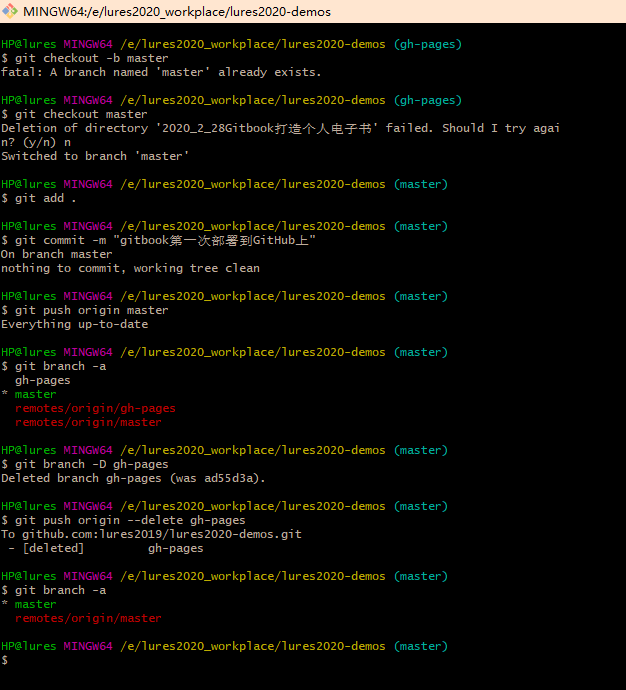
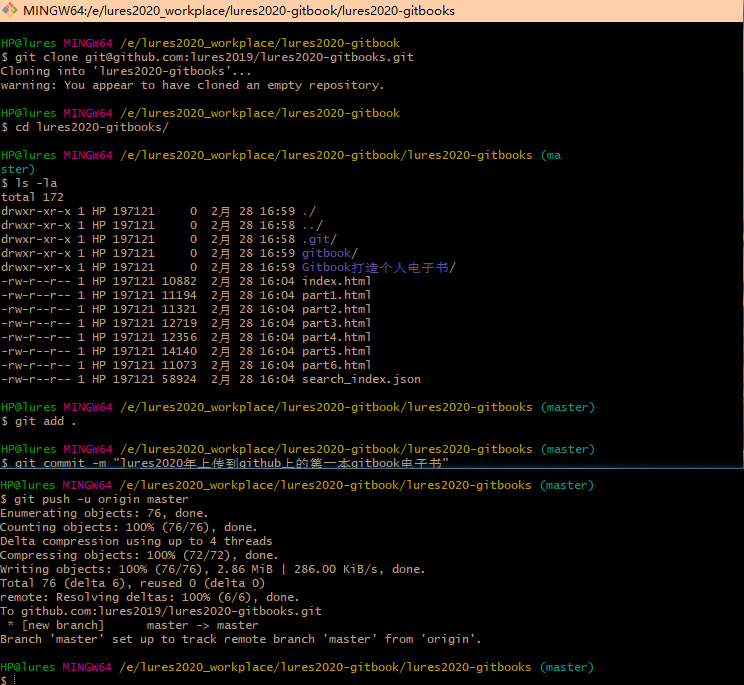
lures的第一本gitbook电子书成功上传至github

Changed region(s): [[0.0, 0.0, 1.0, 1.0], [0.8195, 0.1839, 0.8802, 0.2146], [0.6374, 0.4292, 0.6981, 0.4599]]

diff --git a/part6.html b/part6.html
@@ -249,7 +249,25 @@ gh-pages &#x5206;&#x652F;&#x4FDD;&#x5B58;&#x4E66;&#x7C4D;&#x7F16;&#x8BD1;&#x540E
 </code></pre><pre><code>&#x6CE8;&#x518C;&#x548C;&#x767B;&#x5F55;Github&#x7684;&#x8FC7;&#x7A0B;&#x6211;&#x5C31;&#x4E0D;&#x8BE6;&#x7EC6;&#x53D9;&#x8FF0;&#x4E86;&#xFF01;&#x5927;&#x5BB6;&#x53EF;&#x4EE5;&#x53C2;&#x8003;&#x8FD9;&#x7BC7;&#x6587;&#x7AE0;&#xFF1A;
     https://blog.csdn.net/rj597306518/article/details/71307757
 </code></pre><p><img src="Gitbook&#x6253;&#x9020;&#x4E2A;&#x4EBA;&#x7535;&#x5B50;&#x4E66;/&#x767B;&#x5F55;gitbook.png" alt=""></p>
-
+<pre><code>&#x65B0;&#x5EFA;&#x4E00;&#x4E2A;&#x4ED3;&#x5E93;&#xFF1A;lures2020-gitbooks
+</code></pre><p><img src="Gitbook&#x6253;&#x9020;&#x4E2A;&#x4EBA;&#x7535;&#x5B50;&#x4E66;/git&#x65B0;&#x4ED3;&#x5E93;.png" alt=""></p>
+<pre><code>&#x590D;&#x5236;&#x4ED3;&#x5E93;&#x7684;ssh&#x5730;&#x5740;&#xFF0C;&#x6253;&#x5F00;&#x60F3;&#x514B;&#x9686;&#x4ED3;&#x5E93;&#x7684;&#x4F4D;&#x7F6E;Git bash&#xFF0C;&#x63A5;&#x7740;&#x8F93;&#x5165;&#x4E0B;&#x9762;&#x7684;&#x4EE3;&#x7801;&#xFF1A;
+git clone git@github.com:lures2019/lures2020-gitbooks.git
+cd lures2020-gitbooks
+</code></pre><pre><code>&#x63A5;&#x7740;&#xFF0C;&#x5C06;_book&#x6587;&#x4EF6;&#x5939;&#x91CC;&#x9762;&#x7684;&#x6587;&#x4EF6;&#x5168;&#x90E8;&#x62F7;&#x8D1D;&#x5230;&#x65B0;&#x7684;&#x6587;&#x4EF6;&#x5939;&#x91CC;&#xFF0C;&#x5982;&#x4E0B;&#x56FE;&#xFF1A;
+</code></pre><p><img src="Gitbook&#x6253;&#x9020;&#x4E2A;&#x4EBA;&#x7535;&#x5B50;&#x4E66;/_book&#x6587;&#x4EF6;&#x5939;&#x64CD;&#x4F5C;1.png" alt=""></p>
+<pre><code>&#x63A5;&#x7740;&#xFF0C;&#x4FBF;&#x53EF;&#x4EE5;&#x8F93;&#x5165;&#x4E0B;&#x9762;&#x8FD9;&#x4E9B;&#x547D;&#x4EE4;&#xFF1A;
+git add .
+git commit -m &quot;lures2020&#x5E74;&#x4E0A;&#x4F20;&#x5230;github&#x4E0A;&#x7684;&#x7B2C;&#x4E00;&#x672C;&#x7535;&#x5B50;&#x4E66;&quot;
+git push -u origin master
+</code></pre><p><img src="Gitbook&#x6253;&#x9020;&#x4E2A;&#x4EBA;&#x7535;&#x5B50;&#x4E66;/&#x5220;&#x9664;&#x539F;&#x6709;&#x5206;&#x652F;.png" alt=""></p>
+<p><img src="Gitbook&#x6253;&#x9020;&#x4E2A;&#x4EBA;&#x7535;&#x5B50;&#x4E66;/gitbooks&#x4EE3;&#x7801;&#x4E0A;&#x4F20;1.png" alt=""></p>
+<p><img src="Gitbook&#x6253;&#x9020;&#x4E2A;&#x4EBA;&#x7535;&#x5B50;&#x4E66;/&#x9009;&#x62E9;settings&#x754C;&#x9762;.png" alt=""></p>
+<p><img src="Gitbook&#x6253;&#x9020;&#x4E2A;&#x4EBA;&#x7535;&#x5B50;&#x4E66;/settings2.png" alt=""></p>
+<p><img src="Gitbook&#x6253;&#x9020;&#x4E2A;&#x4EBA;&#x7535;&#x5B50;&#x4E66;/&#x4E66;&#x672C;&#x5C55;&#x793A;.png" alt=""></p>
+<pre><code>&#x6700;&#x540E;&#xFF0C;&#x7ECF;&#x8FC7;&#x597D;&#x4E45;&#x7684;&#x6D4B;&#x8BD5;&#xFF0C;&#x7EC8;&#x4E8E;over&#xFF0C;&#x987A;&#x4FBF;&#x8BB0;&#x5F55;&#x4E0B;&#x6559;&#x7A0B;&#xFF0C;&#x611F;&#x8C22;&#x6211;&#x5C31;&#x6253;&#x8D4F;&#x4E00;&#x4E0B;&#x5427;&#xFF01;
+&#x4E66;&#x672C;&#x7F51;&#x5740;&#xFF1A;https://lures2019.github.io/lures2020-gitbooks/
+</code></pre>
                                 
                                 </section>
                             
@@ -288,7 +306,7 @@ gh-pages &#x5206;&#x652F;&#x4FDD;&#x5B58;&#x4E66;&#x7C4D;&#x7F16;&#x8BD1;&#x540E
     <script>
         var gitbook = gitbook || [];
         gitbook.push(function() {
-            gitbook.page.hasChanged({"page":{"title":"6、将Gitbook电子书部署到GitHub上！","level":"1.7","depth":1,"previous":{"title":"5、相关插件！","level":"1.6","depth":1,"path":"part5.md","ref":"part5.md","articles":[]},"dir":"ltr"},"config":{"plugins":["donate","github-buttons@2.1.0","edit-link","livereload"],"root":".","styles":{"website":"styles/website.css","pdf":"styles/pdf.css","epub":"styles/epub.css","mobi":"styles/mobi.css","ebook":"styles/ebook.css","print":"styles/print.css"},"pluginsConfig":{"livereload":{},"search":{},"lunr":{"maxIndexSize":1000000,"ignoreSpecialCharacters":false},"donate":{"alipay":"https://lures2019.github.io/images/alipay.png","alipayText":"支付宝打赏","button":"打赏","title":"","wechat":"https://lures2019.github.io/images/wechatpay.png","wechatText":"微信打赏"},"fontsettings":{"theme":"white","family":"sans","size":2},"highlight":{},"github-buttons":{"repo":"lures2019/lures2020-demos","types":["star"],"size":"small"},"sharing":{"facebook":true,"twitter":true,"google":false,"weibo":false,"instapaper":false,"vk":false,"all":["facebook","google","twitter","weibo","instapaper"]},"edit-link":{"label":"编辑页面","base":"https://github.com/lures2019/lures2020-demos/2020_2_28Gitbook打造个人电子书"},"theme-default":{"styles":{"website":"styles/website.css","pdf":"styles/pdf.css","epub":"styles/epub.css","mobi":"styles/mobi.css","ebook":"styles/ebook.css","print":"styles/print.css"},"showLevel":false}},"theme":"default","author":"lures","pdf":{"pageNumbers":true,"fontSize":12,"fontFamily":"Arial","paperSize":"a4","chapterMark":"pagebreak","pageBreaksBefore":"/","margin":{"right":62,"left":62,"top":56,"bottom":56}},"structure":{"langs":"LANGS.md","readme":"README.md","glossary":"GLOSSARY.md","summary":"SUMMARY.md"},"variables":{},"title":"使用Gitbook打造免费的个人电子书","language":"zh-hans","gitbook":"*","description":"lures手把手完整式教程！"},"file":{"path":"part6.md","mtime":"2020-02-28T05:54:24.130Z","type":"markdown"},"gitbook":{"version":"3.2.3","time":"2020-02-28T06:42:22.974Z"},"basePath":".","book":{"language":""}});
+            gitbook.page.hasChanged({"page":{"title":"6、将Gitbook电子书部署到GitHub上！","level":"1.7","depth":1,"previous":{"title":"5、相关插件！","level":"1.6","depth":1,"path":"part5.md","ref":"part5.md","articles":[]},"dir":"ltr"},"config":{"plugins":["donate","github-buttons@2.1.0","edit-link","livereload"],"root":".","styles":{"website":"styles/website.css","pdf":"styles/pdf.css","epub":"styles/epub.css","mobi":"styles/mobi.css","ebook":"styles/ebook.css","print":"styles/print.css"},"pluginsConfig":{"livereload":{},"search":{},"lunr":{"maxIndexSize":1000000,"ignoreSpecialCharacters":false},"donate":{"alipay":"https://lures2019.github.io/images/alipay.png","alipayText":"支付宝打赏","button":"打赏","title":"","wechat":"https://lures2019.github.io/images/wechatpay.png","wechatText":"微信打赏"},"fontsettings":{"theme":"white","family":"sans","size":2},"highlight":{},"github-buttons":{"repo":"lures2019/lures2020-demos","types":["star"],"size":"small"},"sharing":{"facebook":true,"twitter":true,"google":false,"weibo":false,"instapaper":false,"vk":false,"all":["facebook","google","twitter","weibo","instapaper"]},"edit-link":{"label":"编辑页面","base":"https://github.com/lures2019/lures2020-demos/2020_2_28Gitbook打造个人电子书"},"theme-default":{"styles":{"website":"styles/website.css","pdf":"styles/pdf.css","epub":"styles/epub.css","mobi":"styles/mobi.css","ebook":"styles/ebook.css","print":"styles/print.css"},"showLevel":false}},"theme":"default","author":"lures","pdf":{"pageNumbers":true,"fontSize":12,"fontFamily":"Arial","paperSize":"a4","chapterMark":"pagebreak","pageBreaksBefore":"/","margin":{"right":62,"left":62,"top":56,"bottom":56}},"structure":{"langs":"LANGS.md","readme":"README.md","glossary":"GLOSSARY.md","summary":"SUMMARY.md"},"variables":{},"title":"使用Gitbook打造免费的个人电子书","language":"zh-hans","gitbook":"*","description":"lures手把手完整式教程！"},"file":{"path":"part6.md","mtime":"2020-02-28T09:17:37.387Z","type":"markdown"},"gitbook":{"version":"3.2.3","time":"2020-02-28T09:19:41.787Z"},"basePath":".","book":{"language":""}});
         });
     </script>
 </div>

diff --git a/part5.html b/part5.html
@@ -340,7 +340,7 @@ gitbook-plugin-edit-link(GitHub&#x7F16;&#x8F91;&#x6309;&#x94AE;): https://www.np
     <script>
         var gitbook = gitbook || [];
         gitbook.push(function() {
-            gitbook.page.hasChanged({"page":{"title":"5、相关插件！","level":"1.6","depth":1,"next":{"title":"6、将Gitbook电子书部署到GitHub上！","level":"1.7","depth":1,"path":"part6.md","ref":"part6.md","articles":[]},"previous":{"title":"4、简单书写","level":"1.5","depth":1,"path":"part4.md","ref":"part4.md","articles":[]},"dir":"ltr"},"config":{"plugins":["donate","github-buttons@2.1.0","edit-link","livereload"],"root":".","styles":{"website":"styles/website.css","pdf":"styles/pdf.css","epub":"styles/epub.css","mobi":"styles/mobi.css","ebook":"styles/ebook.css","print":"styles/print.css"},"pluginsConfig":{"livereload":{},"search":{},"lunr":{"maxIndexSize":1000000,"ignoreSpecialCharacters":false},"donate":{"alipay":"https://lures2019.github.io/images/alipay.png","alipayText":"支付宝打赏","button":"打赏","title":"","wechat":"https://lures2019.github.io/images/wechatpay.png","wechatText":"微信打赏"},"fontsettings":{"theme":"white","family":"sans","size":2},"highlight":{},"github-buttons":{"repo":"lures2019/lures2020-demos","types":["star"],"size":"small"},"sharing":{"facebook":true,"twitter":true,"google":false,"weibo":false,"instapaper":false,"vk":false,"all":["facebook","google","twitter","weibo","instapaper"]},"edit-link":{"label":"编辑页面","base":"https://github.com/lures2019/lures2020-demos/2020_2_28Gitbook打造个人电子书"},"theme-default":{"styles":{"website":"styles/website.css","pdf":"styles/pdf.css","epub":"styles/epub.css","mobi":"styles/mobi.css","ebook":"styles/ebook.css","print":"styles/print.css"},"showLevel":false}},"theme":"default","author":"lures","pdf":{"pageNumbers":true,"fontSize":12,"fontFamily":"Arial","paperSize":"a4","chapterMark":"pagebreak","pageBreaksBefore":"/","margin":{"right":62,"left":62,"top":56,"bottom":56}},"structure":{"langs":"LANGS.md","readme":"README.md","glossary":"GLOSSARY.md","summary":"SUMMARY.md"},"variables":{},"title":"使用Gitbook打造免费的个人电子书","language":"zh-hans","gitbook":"*","description":"lures手把手完整式教程！"},"file":{"path":"part5.md","mtime":"2020-02-28T05:53:41.428Z","type":"markdown"},"gitbook":{"version":"3.2.3","time":"2020-02-28T06:42:22.974Z"},"basePath":".","book":{"language":""}});
+            gitbook.page.hasChanged({"page":{"title":"5、相关插件！","level":"1.6","depth":1,"next":{"title":"6、将Gitbook电子书部署到GitHub上！","level":"1.7","depth":1,"path":"part6.md","ref":"part6.md","articles":[]},"previous":{"title":"4、简单书写","level":"1.5","depth":1,"path":"part4.md","ref":"part4.md","articles":[]},"dir":"ltr"},"config":{"plugins":["donate","github-buttons@2.1.0","edit-link","livereload"],"root":".","styles":{"website":"styles/website.css","pdf":"styles/pdf.css","epub":"styles/epub.css","mobi":"styles/mobi.css","ebook":"styles/ebook.css","print":"styles/print.css"},"pluginsConfig":{"livereload":{},"search":{},"lunr":{"maxIndexSize":1000000,"ignoreSpecialCharacters":false},"donate":{"alipay":"https://lures2019.github.io/images/alipay.png","alipayText":"支付宝打赏","button":"打赏","title":"","wechat":"https://lures2019.github.io/images/wechatpay.png","wechatText":"微信打赏"},"fontsettings":{"theme":"white","family":"sans","size":2},"highlight":{},"github-buttons":{"repo":"lures2019/lures2020-demos","types":["star"],"size":"small"},"sharing":{"facebook":true,"twitter":true,"google":false,"weibo":false,"instapaper":false,"vk":false,"all":["facebook","google","twitter","weibo","instapaper"]},"edit-link":{"label":"编辑页面","base":"https://github.com/lures2019/lures2020-demos/2020_2_28Gitbook打造个人电子书"},"theme-default":{"styles":{"website":"styles/website.css","pdf":"styles/pdf.css","epub":"styles/epub.css","mobi":"styles/mobi.css","ebook":"styles/ebook.css","print":"styles/print.css"},"showLevel":false}},"theme":"default","author":"lures","pdf":{"pageNumbers":true,"fontSize":12,"fontFamily":"Arial","paperSize":"a4","chapterMark":"pagebreak","pageBreaksBefore":"/","margin":{"right":62,"left":62,"top":56,"bottom":56}},"structure":{"langs":"LANGS.md","readme":"README.md","glossary":"GLOSSARY.md","summary":"SUMMARY.md"},"variables":{},"title":"使用Gitbook打造免费的个人电子书","language":"zh-hans","gitbook":"*","description":"lures手把手完整式教程！"},"file":{"path":"part5.md","mtime":"2020-02-28T05:53:41.428Z","type":"markdown"},"gitbook":{"version":"3.2.3","time":"2020-02-28T09:19:41.787Z"},"basePath":".","book":{"language":""}});
         });
     </script>
 </div>

diff --git a/part4.html b/part4.html
@@ -298,7 +298,7 @@
     <script>
         var gitbook = gitbook || [];
         gitbook.push(function() {
-            gitbook.page.hasChanged({"page":{"title":"4、简单书写","level":"1.5","depth":1,"next":{"title":"5、相关插件！","level":"1.6","depth":1,"path":"part5.md","ref":"part5.md","articles":[]},"previous":{"title":"3、Gitbook的简单使用","level":"1.4","depth":1,"path":"part3.md","ref":"part3.md","articles":[]},"dir":"ltr"},"config":{"plugins":["donate","github-buttons@2.1.0","edit-link","livereload"],"root":".","styles":{"website":"styles/website.css","pdf":"styles/pdf.css","epub":"styles/epub.css","mobi":"styles/mobi.css","ebook":"styles/ebook.css","print":"styles/print.css"},"pluginsConfig":{"livereload":{},"search":{},"lunr":{"maxIndexSize":1000000,"ignoreSpecialCharacters":false},"donate":{"alipay":"https://lures2019.github.io/images/alipay.png","alipayText":"支付宝打赏","button":"打赏","title":"","wechat":"https://lures2019.github.io/images/wechatpay.png","wechatText":"微信打赏"},"fontsettings":{"theme":"white","family":"sans","size":2},"highlight":{},"github-buttons":{"repo":"lures2019/lures2020-demos","types":["star"],"size":"small"},"sharing":{"facebook":true,"twitter":true,"google":false,"weibo":false,"instapaper":false,"vk":false,"all":["facebook","google","twitter","weibo","instapaper"]},"edit-link":{"label":"编辑页面","base":"https://github.com/lures2019/lures2020-demos/2020_2_28Gitbook打造个人电子书"},"theme-default":{"styles":{"website":"styles/website.css","pdf":"styles/pdf.css","epub":"styles/epub.css","mobi":"styles/mobi.css","ebook":"styles/ebook.css","print":"styles/print.css"},"showLevel":false}},"theme":"default","author":"lures","pdf":{"pageNumbers":true,"fontSize":12,"fontFamily":"Arial","paperSize":"a4","chapterMark":"pagebreak","pageBreaksBefore":"/","margin":{"right":62,"left":62,"top":56,"bottom":56}},"structure":{"langs":"LANGS.md","readme":"README.md","glossary":"GLOSSARY.md","summary":"SUMMARY.md"},"variables":{},"title":"使用Gitbook打造免费的个人电子书","language":"zh-hans","gitbook":"*","description":"lures手把手完整式教程！"},"file":{"path":"part4.md","mtime":"2020-02-28T05:52:36.982Z","type":"markdown"},"gitbook":{"version":"3.2.3","time":"2020-02-28T06:42:22.974Z"},"basePath":".","book":{"language":""}});
+            gitbook.page.hasChanged({"page":{"title":"4、简单书写","level":"1.5","depth":1,"next":{"title":"5、相关插件！","level":"1.6","depth":1,"path":"part5.md","ref":"part5.md","articles":[]},"previous":{"title":"3、Gitbook的简单使用","level":"1.4","depth":1,"path":"part3.md","ref":"part3.md","articles":[]},"dir":"ltr"},"config":{"plugins":["donate","github-buttons@2.1.0","edit-link","livereload"],"root":".","styles":{"website":"styles/website.css","pdf":"styles/pdf.css","epub":"styles/epub.css","mobi":"styles/mobi.css","ebook":"styles/ebook.css","print":"styles/print.css"},"pluginsConfig":{"livereload":{},"search":{},"lunr":{"maxIndexSize":1000000,"ignoreSpecialCharacters":false},"donate":{"alipay":"https://lures2019.github.io/images/alipay.png","alipayText":"支付宝打赏","button":"打赏","title":"","wechat":"https://lures2019.github.io/images/wechatpay.png","wechatText":"微信打赏"},"fontsettings":{"theme":"white","family":"sans","size":2},"highlight":{},"github-buttons":{"repo":"lures2019/lures2020-demos","types":["star"],"size":"small"},"sharing":{"facebook":true,"twitter":true,"google":false,"weibo":false,"instapaper":false,"vk":false,"all":["facebook","google","twitter","weibo","instapaper"]},"edit-link":{"label":"编辑页面","base":"https://github.com/lures2019/lures2020-demos/2020_2_28Gitbook打造个人电子书"},"theme-default":{"styles":{"website":"styles/website.css","pdf":"styles/pdf.css","epub":"styles/epub.css","mobi":"styles/mobi.css","ebook":"styles/ebook.css","print":"styles/print.css"},"showLevel":false}},"theme":"default","author":"lures","pdf":{"pageNumbers":true,"fontSize":12,"fontFamily":"Arial","paperSize":"a4","chapterMark":"pagebreak","pageBreaksBefore":"/","margin":{"right":62,"left":62,"top":56,"bottom":56}},"structure":{"langs":"LANGS.md","readme":"README.md","glossary":"GLOSSARY.md","summary":"SUMMARY.md"},"variables":{},"title":"使用Gitbook打造免费的个人电子书","language":"zh-hans","gitbook":"*","description":"lures手把手完整式教程！"},"file":{"path":"part4.md","mtime":"2020-02-28T05:52:36.982Z","type":"markdown"},"gitbook":{"version":"3.2.3","time":"2020-02-28T09:19:41.787Z"},"basePath":".","book":{"language":""}});
         });
     </script>
 </div>

diff --git a/part2.html b/part2.html
@@ -292,7 +292,7 @@
     <script>
         var gitbook = gitbook || [];
         gitbook.push(function() {
-            gitbook.page.hasChanged({"page":{"title":"2、安装Gitbook","level":"1.3","depth":1,"next":{"title":"3、Gitbook的简单使用","level":"1.4","depth":1,"path":"part3.md","ref":"part3.md","articles":[]},"previous":{"title":"1、安装Node.js","level":"1.2","depth":1,"path":"part1.md","ref":"part1.md","articles":[]},"dir":"ltr"},"config":{"plugins":["donate","github-buttons@2.1.0","edit-link","livereload"],"root":".","styles":{"website":"styles/website.css","pdf":"styles/pdf.css","epub":"styles/epub.css","mobi":"styles/mobi.css","ebook":"styles/ebook.css","print":"styles/print.css"},"pluginsConfig":{"livereload":{},"search":{},"lunr":{"maxIndexSize":1000000,"ignoreSpecialCharacters":false},"donate":{"alipay":"https://lures2019.github.io/images/alipay.png","alipayText":"支付宝打赏","button":"打赏","title":"","wechat":"https://lures2019.github.io/images/wechatpay.png","wechatText":"微信打赏"},"fontsettings":{"theme":"white","family":"sans","size":2},"highlight":{},"github-buttons":{"repo":"lures2019/lures2020-demos","types":["star"],"size":"small"},"sharing":{"facebook":true,"twitter":true,"google":false,"weibo":false,"instapaper":false,"vk":false,"all":["facebook","google","twitter","weibo","instapaper"]},"edit-link":{"label":"编辑页面","base":"https://github.com/lures2019/lures2020-demos/2020_2_28Gitbook打造个人电子书"},"theme-default":{"styles":{"website":"styles/website.css","pdf":"styles/pdf.css","epub":"styles/epub.css","mobi":"styles/mobi.css","ebook":"styles/ebook.css","print":"styles/print.css"},"showLevel":false}},"theme":"default","author":"lures","pdf":{"pageNumbers":true,"fontSize":12,"fontFamily":"Arial","paperSize":"a4","chapterMark":"pagebreak","pageBreaksBefore":"/","margin":{"right":62,"left":62,"top":56,"bottom":56}},"structure":{"langs":"LANGS.md","readme":"README.md","glossary":"GLOSSARY.md","summary":"SUMMARY.md"},"variables":{},"title":"使用Gitbook打造免费的个人电子书","language":"zh-hans","gitbook":"*","description":"lures手把手完整式教程！"},"file":{"path":"part2.md","mtime":"2020-02-28T05:50:51.713Z","type":"markdown"},"gitbook":{"version":"3.2.3","time":"2020-02-28T06:42:22.974Z"},"basePath":".","book":{"language":""}});
+            gitbook.page.hasChanged({"page":{"title":"2、安装Gitbook","level":"1.3","depth":1,"next":{"title":"3、Gitbook的简单使用","level":"1.4","depth":1,"path":"part3.md","ref":"part3.md","articles":[]},"previous":{"title":"1、安装Node.js","level":"1.2","depth":1,"path":"part1.md","ref":"part1.md","articles":[]},"dir":"ltr"},"config":{"plugins":["donate","github-buttons@2.1.0","edit-link","livereload"],"root":".","styles":{"website":"styles/website.css","pdf":"styles/pdf.css","epub":"styles/epub.css","mobi":"styles/mobi.css","ebook":"styles/ebook.css","print":"styles/print.css"},"pluginsConfig":{"livereload":{},"search":{},"lunr":{"maxIndexSize":1000000,"ignoreSpecialCharacters":false},"donate":{"alipay":"https://lures2019.github.io/images/alipay.png","alipayText":"支付宝打赏","button":"打赏","title":"","wechat":"https://lures2019.github.io/images/wechatpay.png","wechatText":"微信打赏"},"fontsettings":{"theme":"white","family":"sans","size":2},"highlight":{},"github-buttons":{"repo":"lures2019/lures2020-demos","types":["star"],"size":"small"},"sharing":{"facebook":true,"twitter":true,"google":false,"weibo":false,"instapaper":false,"vk":false,"all":["facebook","google","twitter","weibo","instapaper"]},"edit-link":{"label":"编辑页面","base":"https://github.com/lures2019/lures2020-demos/2020_2_28Gitbook打造个人电子书"},"theme-default":{"styles":{"website":"styles/website.css","pdf":"styles/pdf.css","epub":"styles/epub.css","mobi":"styles/mobi.css","ebook":"styles/ebook.css","print":"styles/print.css"},"showLevel":false}},"theme":"default","author":"lures","pdf":{"pageNumbers":true,"fontSize":12,"fontFamily":"Arial","paperSize":"a4","chapterMark":"pagebreak","pageBreaksBefore":"/","margin":{"right":62,"left":62,"top":56,"bottom":56}},"structure":{"langs":"LANGS.md","readme":"README.md","glossary":"GLOSSARY.md","summary":"SUMMARY.md"},"variables":{},"title":"使用Gitbook打造免费的个人电子书","language":"zh-hans","gitbook":"*","description":"lures手把手完整式教程！"},"file":{"path":"part2.md","mtime":"2020-02-28T05:50:51.713Z","type":"markdown"},"gitbook":{"version":"3.2.3","time":"2020-02-28T09:19:41.787Z"},"basePath":".","book":{"language":""}});
         });
     </script>
 </div>

diff --git a/part3.html b/part3.html
@@ -303,7 +303,7 @@
     <script>
         var gitbook = gitbook || [];
         gitbook.push(function() {
-            gitbook.page.hasChanged({"page":{"title":"3、Gitbook的简单使用","level":"1.4","depth":1,"next":{"title":"4、简单书写","level":"1.5","depth":1,"path":"part4.md","ref":"part4.md","articles":[]},"previous":{"title":"2、安装Gitbook","level":"1.3","depth":1,"path":"part2.md","ref":"part2.md","articles":[]},"dir":"ltr"},"config":{"plugins":["donate","github-buttons@2.1.0","edit-link","livereload"],"root":".","styles":{"website":"styles/website.css","pdf":"styles/pdf.css","epub":"styles/epub.css","mobi":"styles/mobi.css","ebook":"styles/ebook.css","print":"styles/print.css"},"pluginsConfig":{"livereload":{},"search":{},"lunr":{"maxIndexSize":1000000,"ignoreSpecialCharacters":false},"donate":{"alipay":"https://lures2019.github.io/images/alipay.png","alipayText":"支付宝打赏","button":"打赏","title":"","wechat":"https://lures2019.github.io/images/wechatpay.png","wechatText":"微信打赏"},"fontsettings":{"theme":"white","family":"sans","size":2},"highlight":{},"github-buttons":{"repo":"lures2019/lures2020-demos","types":["star"],"size":"small"},"sharing":{"facebook":true,"twitter":true,"google":false,"weibo":false,"instapaper":false,"vk":false,"all":["facebook","google","twitter","weibo","instapaper"]},"edit-link":{"label":"编辑页面","base":"https://github.com/lures2019/lures2020-demos/2020_2_28Gitbook打造个人电子书"},"theme-default":{"styles":{"website":"styles/website.css","pdf":"styles/pdf.css","epub":"styles/epub.css","mobi":"styles/mobi.css","ebook":"styles/ebook.css","print":"styles/print.css"},"showLevel":false}},"theme":"default","author":"lures","pdf":{"pageNumbers":true,"fontSize":12,"fontFamily":"Arial","paperSize":"a4","chapterMark":"pagebreak","pageBreaksBefore":"/","margin":{"right":62,"left":62,"top":56,"bottom":56}},"structure":{"langs":"LANGS.md","readme":"README.md","glossary":"GLOSSARY.md","summary":"SUMMARY.md"},"variables":{},"title":"使用Gitbook打造免费的个人电子书","language":"zh-hans","gitbook":"*","description":"lures手把手完整式教程！"},"file":{"path":"part3.md","mtime":"2020-02-28T05:51:44.268Z","type":"markdown"},"gitbook":{"version":"3.2.3","time":"2020-02-28T06:42:22.974Z"},"basePath":".","book":{"language":""}});
+            gitbook.page.hasChanged({"page":{"title":"3、Gitbook的简单使用","level":"1.4","depth":1,"next":{"title":"4、简单书写","level":"1.5","depth":1,"path":"part4.md","ref":"part4.md","articles":[]},"previous":{"title":"2、安装Gitbook","level":"1.3","depth":1,"path":"part2.md","ref":"part2.md","articles":[]},"dir":"ltr"},"config":{"plugins":["donate","github-buttons@2.1.0","edit-link","livereload"],"root":".","styles":{"website":"styles/website.css","pdf":"styles/pdf.css","epub":"styles/epub.css","mobi":"styles/mobi.css","ebook":"styles/ebook.css","print":"styles/print.css"},"pluginsConfig":{"livereload":{},"search":{},"lunr":{"maxIndexSize":1000000,"ignoreSpecialCharacters":false},"donate":{"alipay":"https://lures2019.github.io/images/alipay.png","alipayText":"支付宝打赏","button":"打赏","title":"","wechat":"https://lures2019.github.io/images/wechatpay.png","wechatText":"微信打赏"},"fontsettings":{"theme":"white","family":"sans","size":2},"highlight":{},"github-buttons":{"repo":"lures2019/lures2020-demos","types":["star"],"size":"small"},"sharing":{"facebook":true,"twitter":true,"google":false,"weibo":false,"instapaper":false,"vk":false,"all":["facebook","google","twitter","weibo","instapaper"]},"edit-link":{"label":"编辑页面","base":"https://github.com/lures2019/lures2020-demos/2020_2_28Gitbook打造个人电子书"},"theme-default":{"styles":{"website":"styles/website.css","pdf":"styles/pdf.css","epub":"styles/epub.css","mobi":"styles/mobi.css","ebook":"styles/ebook.css","print":"styles/print.css"},"showLevel":false}},"theme":"default","author":"lures","pdf":{"pageNumbers":true,"fontSize":12,"fontFamily":"Arial","paperSize":"a4","chapterMark":"pagebreak","pageBreaksBefore":"/","margin":{"right":62,"left":62,"top":56,"bottom":56}},"structure":{"langs":"LANGS.md","readme":"README.md","glossary":"GLOSSARY.md","summary":"SUMMARY.md"},"variables":{},"title":"使用Gitbook打造免费的个人电子书","language":"zh-hans","gitbook":"*","description":"lures手把手完整式教程！"},"file":{"path":"part3.md","mtime":"2020-02-28T05:51:44.268Z","type":"markdown"},"gitbook":{"version":"3.2.3","time":"2020-02-28T09:19:41.787Z"},"basePath":".","book":{"language":""}});
         });
     </script>
 </div>

diff --git a/part1.html b/part1.html
@@ -291,7 +291,7 @@
     <script>
         var gitbook = gitbook || [];
         gitbook.push(function() {
-            gitbook.page.hasChanged({"page":{"title":"1、安装Node.js","level":"1.2","depth":1,"next":{"title":"2、安装Gitbook","level":"1.3","depth":1,"path":"part2.md","ref":"part2.md","articles":[]},"previous":{"title":"本书介绍","level":"1.1","depth":1,"path":"README.md","ref":"README.md","articles":[]},"dir":"ltr"},"config":{"plugins":["donate","github-buttons@2.1.0","edit-link","livereload"],"root":".","styles":{"website":"styles/website.css","pdf":"styles/pdf.css","epub":"styles/epub.css","mobi":"styles/mobi.css","ebook":"styles/ebook.css","print":"styles/print.css"},"pluginsConfig":{"livereload":{},"search":{},"lunr":{"maxIndexSize":1000000,"ignoreSpecialCharacters":false},"donate":{"alipay":"https://lures2019.github.io/images/alipay.png","alipayText":"支付宝打赏","button":"打赏","title":"","wechat":"https://lures2019.github.io/images/wechatpay.png","wechatText":"微信打赏"},"fontsettings":{"theme":"white","family":"sans","size":2},"highlight":{},"github-buttons":{"repo":"lures2019/lures2020-demos","types":["star"],"size":"small"},"sharing":{"facebook":true,"twitter":true,"google":false,"weibo":false,"instapaper":false,"vk":false,"all":["facebook","google","twitter","weibo","instapaper"]},"edit-link":{"label":"编辑页面","base":"https://github.com/lures2019/lures2020-demos/2020_2_28Gitbook打造个人电子书"},"theme-default":{"styles":{"website":"styles/website.css","pdf":"styles/pdf.css","epub":"styles/epub.css","mobi":"styles/mobi.css","ebook":"styles/ebook.css","print":"styles/print.css"},"showLevel":false}},"theme":"default","author":"lures","pdf":{"pageNumbers":true,"fontSize":12,"fontFamily":"Arial","paperSize":"a4","chapterMark":"pagebreak","pageBreaksBefore":"/","margin":{"right":62,"left":62,"top":56,"bottom":56}},"structure":{"langs":"LANGS.md","readme":"README.md","glossary":"GLOSSARY.md","summary":"SUMMARY.md"},"variables":{},"title":"使用Gitbook打造免费的个人电子书","language":"zh-hans","gitbook":"*","description":"lures手把手完整式教程！"},"file":{"path":"part1.md","mtime":"2020-02-28T05:50:02.484Z","type":"markdown"},"gitbook":{"version":"3.2.3","time":"2020-02-28T06:42:22.974Z"},"basePath":".","book":{"language":""}});
+            gitbook.page.hasChanged({"page":{"title":"1、安装Node.js","level":"1.2","depth":1,"next":{"title":"2、安装Gitbook","level":"1.3","depth":1,"path":"part2.md","ref":"part2.md","articles":[]},"previous":{"title":"本书介绍","level":"1.1","depth":1,"path":"README.md","ref":"README.md","articles":[]},"dir":"ltr"},"config":{"plugins":["donate","github-buttons@2.1.0","edit-link","livereload"],"root":".","styles":{"website":"styles/website.css","pdf":"styles/pdf.css","epub":"styles/epub.css","mobi":"styles/mobi.css","ebook":"styles/ebook.css","print":"styles/print.css"},"pluginsConfig":{"livereload":{},"search":{},"lunr":{"maxIndexSize":1000000,"ignoreSpecialCharacters":false},"donate":{"alipay":"https://lures2019.github.io/images/alipay.png","alipayText":"支付宝打赏","button":"打赏","title":"","wechat":"https://lures2019.github.io/images/wechatpay.png","wechatText":"微信打赏"},"fontsettings":{"theme":"white","family":"sans","size":2},"highlight":{},"github-buttons":{"repo":"lures2019/lures2020-demos","types":["star"],"size":"small"},"sharing":{"facebook":true,"twitter":true,"google":false,"weibo":false,"instapaper":false,"vk":false,"all":["facebook","google","twitter","weibo","instapaper"]},"edit-link":{"label":"编辑页面","base":"https://github.com/lures2019/lures2020-demos/2020_2_28Gitbook打造个人电子书"},"theme-default":{"styles":{"website":"styles/website.css","pdf":"styles/pdf.css","epub":"styles/epub.css","mobi":"styles/mobi.css","ebook":"styles/ebook.css","print":"styles/print.css"},"showLevel":false}},"theme":"default","author":"lures","pdf":{"pageNumbers":true,"fontSize":12,"fontFamily":"Arial","paperSize":"a4","chapterMark":"pagebreak","pageBreaksBefore":"/","margin":{"right":62,"left":62,"top":56,"bottom":56}},"structure":{"langs":"LANGS.md","readme":"README.md","glossary":"GLOSSARY.md","summary":"SUMMARY.md"},"variables":{},"title":"使用Gitbook打造免费的个人电子书","language":"zh-hans","gitbook":"*","description":"lures手把手完整式教程！"},"file":{"path":"part1.md","mtime":"2020-02-28T05:50:02.484Z","type":"markdown"},"gitbook":{"version":"3.2.3","time":"2020-02-28T09:19:41.787Z"},"basePath":".","book":{"language":""}});
         });
     </script>
 </div>

diff --git a/index.html b/index.html
@@ -281,7 +281,7 @@
     <script>
         var gitbook = gitbook || [];
         gitbook.push(function() {
-            gitbook.page.hasChanged({"page":{"title":"本书介绍","level":"1.1","depth":1,"next":{"title":"1、安装Node.js","level":"1.2","depth":1,"path":"part1.md","ref":"part1.md","articles":[]},"dir":"ltr"},"config":{"plugins":["donate","github-buttons@2.1.0","edit-link","livereload"],"root":".","styles":{"website":"styles/website.css","pdf":"styles/pdf.css","epub":"styles/epub.css","mobi":"styles/mobi.css","ebook":"styles/ebook.css","print":"styles/print.css"},"pluginsConfig":{"livereload":{},"search":{},"lunr":{"maxIndexSize":1000000,"ignoreSpecialCharacters":false},"donate":{"alipay":"https://lures2019.github.io/images/alipay.png","alipayText":"支付宝打赏","button":"打赏","title":"","wechat":"https://lures2019.github.io/images/wechatpay.png","wechatText":"微信打赏"},"fontsettings":{"theme":"white","family":"sans","size":2},"highlight":{},"github-buttons":{"repo":"lures2019/lures2020-demos","types":["star"],"size":"small"},"sharing":{"facebook":true,"twitter":true,"google":false,"weibo":false,"instapaper":false,"vk":false,"all":["facebook","google","twitter","weibo","instapaper"]},"edit-link":{"label":"编辑页面","base":"https://github.com/lures2019/lures2020-demos/2020_2_28Gitbook打造个人电子书"},"theme-default":{"styles":{"website":"styles/website.css","pdf":"styles/pdf.css","epub":"styles/epub.css","mobi":"styles/mobi.css","ebook":"styles/ebook.css","print":"styles/print.css"},"showLevel":false}},"theme":"default","author":"lures","pdf":{"pageNumbers":true,"fontSize":12,"fontFamily":"Arial","paperSize":"a4","chapterMark":"pagebreak","pageBreaksBefore":"/","margin":{"right":62,"left":62,"top":56,"bottom":56}},"structure":{"langs":"LANGS.md","readme":"README.md","glossary":"GLOSSARY.md","summary":"SUMMARY.md"},"variables":{},"title":"使用Gitbook打造免费的个人电子书","language":"zh-hans","gitbook":"*","description":"lures手把手完整式教程！"},"file":{"path":"README.md","mtime":"2020-02-28T05:47:33.066Z","type":"markdown"},"gitbook":{"version":"3.2.3","time":"2020-02-28T06:42:22.974Z"},"basePath":".","book":{"language":""}});
+            gitbook.page.hasChanged({"page":{"title":"本书介绍","level":"1.1","depth":1,"next":{"title":"1、安装Node.js","level":"1.2","depth":1,"path":"part1.md","ref":"part1.md","articles":[]},"dir":"ltr"},"config":{"plugins":["donate","github-buttons@2.1.0","edit-link","livereload"],"root":".","styles":{"website":"styles/website.css","pdf":"styles/pdf.css","epub":"styles/epub.css","mobi":"styles/mobi.css","ebook":"styles/ebook.css","print":"styles/print.css"},"pluginsConfig":{"livereload":{},"search":{},"lunr":{"maxIndexSize":1000000,"ignoreSpecialCharacters":false},"donate":{"alipay":"https://lures2019.github.io/images/alipay.png","alipayText":"支付宝打赏","button":"打赏","title":"","wechat":"https://lures2019.github.io/images/wechatpay.png","wechatText":"微信打赏"},"fontsettings":{"theme":"white","family":"sans","size":2},"highlight":{},"github-buttons":{"repo":"lures2019/lures2020-demos","types":["star"],"size":"small"},"sharing":{"facebook":true,"twitter":true,"google":false,"weibo":false,"instapaper":false,"vk":false,"all":["facebook","google","twitter","weibo","instapaper"]},"edit-link":{"label":"编辑页面","base":"https://github.com/lures2019/lures2020-demos/2020_2_28Gitbook打造个人电子书"},"theme-default":{"styles":{"website":"styles/website.css","pdf":"styles/pdf.css","epub":"styles/epub.css","mobi":"styles/mobi.css","ebook":"styles/ebook.css","print":"styles/print.css"},"showLevel":false}},"theme":"default","author":"lures","pdf":{"pageNumbers":true,"fontSize":12,"fontFamily":"Arial","paperSize":"a4","chapterMark":"pagebreak","pageBreaksBefore":"/","margin":{"right":62,"left":62,"top":56,"bottom":56}},"structure":{"langs":"LANGS.md","readme":"README.md","glossary":"GLOSSARY.md","summary":"SUMMARY.md"},"variables":{},"title":"使用Gitbook打造免费的个人电子书","language":"zh-hans","gitbook":"*","description":"lures手把手完整式教程！"},"file":{"path":"README.md","mtime":"2020-02-28T05:47:33.066Z","type":"markdown"},"gitbook":{"version":"3.2.3","time":"2020-02-28T09:19:41.787Z"},"basePath":".","book":{"language":""}});
         });
     </script>
 </div>
